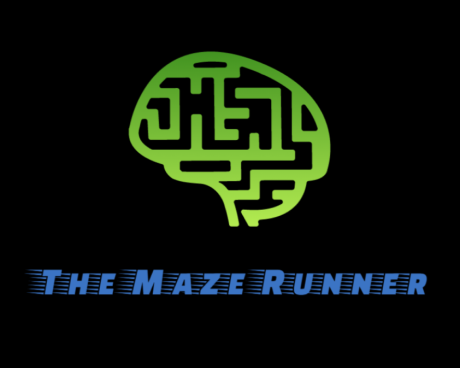
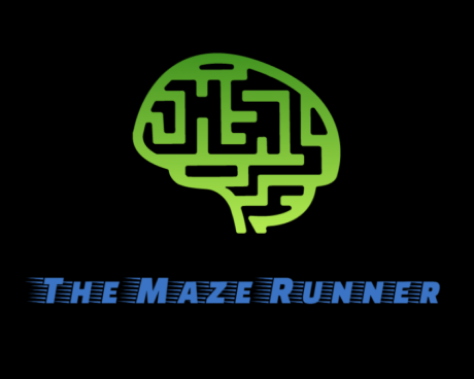
Final Align

diff --git a/index.html b/index.html
@@ -410,7 +410,7 @@
             <li class="project-item" style="background-color: #aeeafe">
                 <a href="https://github.com/VedantKhairnar/The-Maze-Runner" rel="noopener" target="_blank">
                     <div class="project-color" style="background-color:#ff7221"></div>
-                    <div class="project-visual" style="background: url('/images/portfolio/wingardiumLeviosa.png');"></div>
+                    <div class="project-visual" style="background: url('/images/portfolio/wingardiumLeviosaFinal.png');"></div>
                 </a>
             </li>
 
